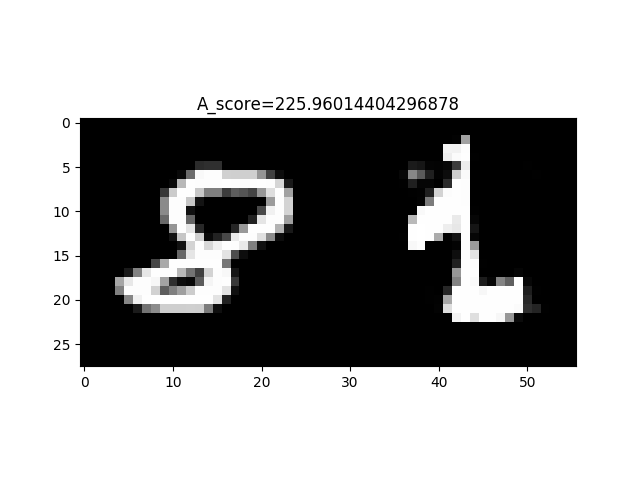
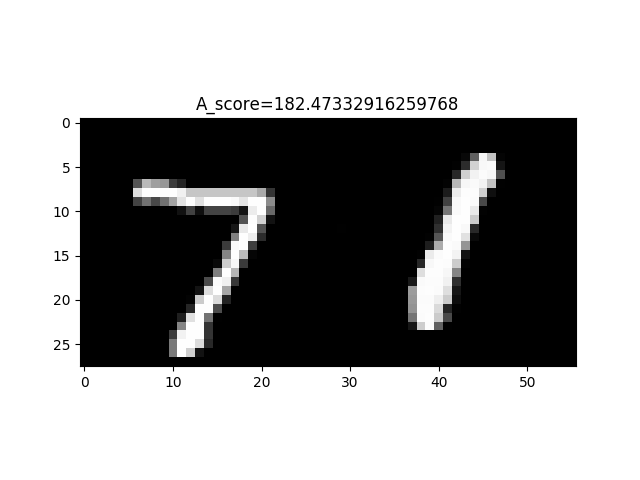
add README.md

diff --git a/Generation/GAN/BiGAN/Predictor.py b/Generation/GAN/BiGAN/Predictor.py
@@ -15,7 +15,7 @@ args = parser.parse_args()
 
 import Network.mnist_net as Network
 train_valid, test = mnist.get_mnist(withlabel=True, ndim=3, scale=255.)
-test = [i[0] for i in test  if(i[1]==8)] #ラベル1のみを選択
+test = [i[0] for i in test  if(i[1]==7)] #ラベル1のみを選択
 test = test[0:1]
 
 

diff --git a/Generation/GAN/ADGAN/README.md b/Generation/GAN/ADGAN/README.md
@@ -1,1 +1,11 @@
-In Process
+# これは何？
+ChainerによるADGANのプログラムです．
+ADGANについては（）に書いてあるので，ここではプログラムの動かし方について書きます．<br>
+ここではNvidia-dockerを使っています．環境が/LearningのDockerファイルに書かれているので，
+それをBuildするか同じ環境を整えてください．
+# 動かし方
+`python3 Train.py`でDCGANの学習済みモデルを読み込み学習が始まります．
+このディレクトリ内にあるDCGANをまだ動かしていない場合は./DCGANでそちらを先に動かしてください．<br>
+学習中はデフォルトでは10Epochごとに入力画像と出力画像のペアが./result/previewに出力されます．<br>
+`json2csv.py`はダンプされたログファイルをCSV形式に変えるプログラムです．<br>
+`Predictor.py`は学習モデルを読み込んで再現するためのプログラムです．

diff --git a/Generation/GAN/AnoGAN/README.md b/Generation/GAN/AnoGAN/README.md
@@ -1,5 +1,5 @@
 # これは何？
-AnoGANの追試をしたものです．<br>
+ChainerでAnoGANのプログラムを書いたたものです．<br>
 AnoGANについては（ https://ihatasi.hatenablog.com/entry/2019/04/20/030339 ）に書いてあるので，ここではプログラムの動かし方について書きます．<br>
 ここではNvidia-dockerを使っています．環境が/LearningのDockerファイルに書かれているので，それをBuildするか同じ環境を整えてください．
 # 動かし方
